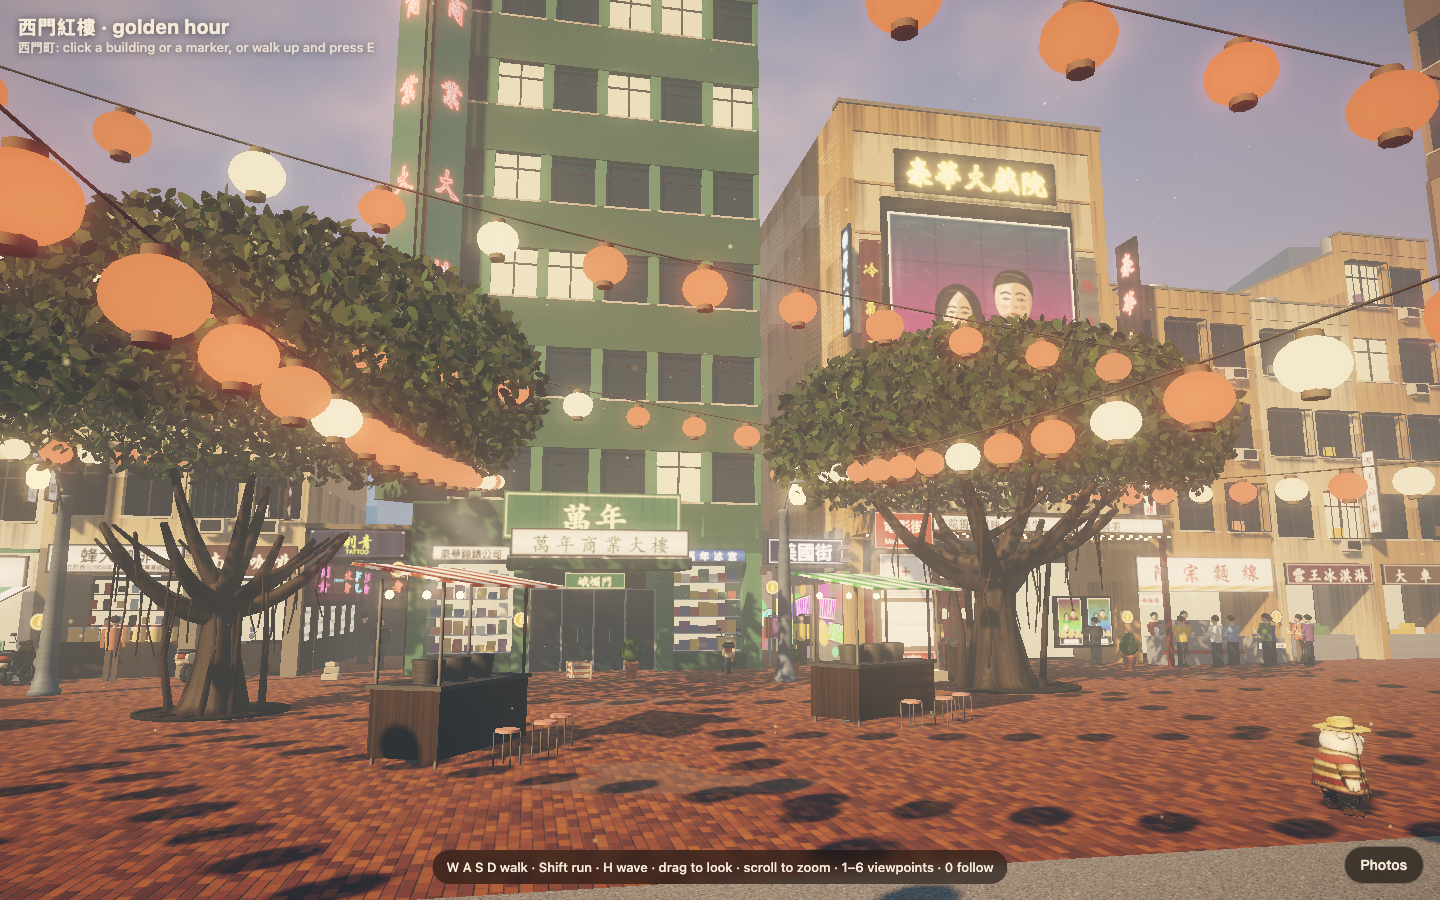
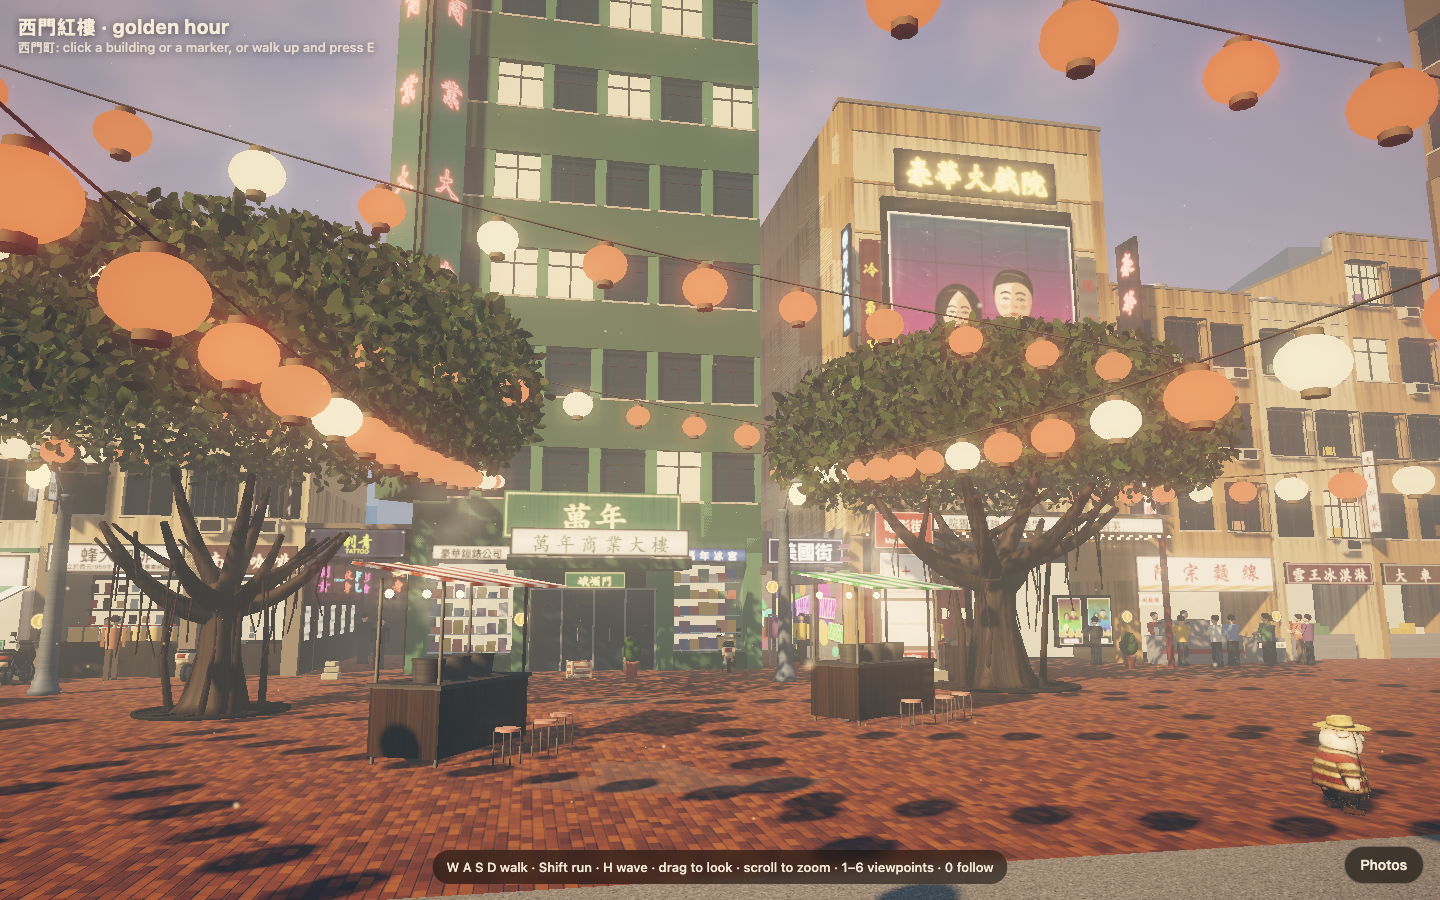
feat(remake): 豪華 billboard laid out after the 1964 樂聲 opening newsreel
Block title read right to left with the English title under it, from the
國家文化記憶庫 newsreel frame; sources.md records that search and the two
國史館 press sets that could not be viewed.

diff --git a/remake/landmarks-ximen.js b/remake/landmarks-ximen.js
@@ -134,7 +134,11 @@ function filmPoster(title, tag, hue, grid) {
     bust(W * 0.36, H * 0.4, W * 0.17, `hsl(${hue + 10},70%,42%)`, true); bust(W * 0.66, H * 0.33, W * 0.2, `hsl(${hue + 215},45%,30%)`, false);
     for (let i = 0; i < 260; i++) { g.strokeStyle = `rgba(${rnd() < 0.5 ? '255,240,210' : '40,20,30'},${0.03 + rnd() * 0.07})`; g.lineWidth = 2 + rnd() * 7; const x = rnd() * W, y = rnd() * H; g.beginPath(); g.moveTo(x, y); g.lineTo(x + (rnd() - 0.5) * W * 0.18, y + (rnd() - 0.5) * H * 0.05); g.stroke(); }   // brush marks
     g.textAlign = 'center'; g.textBaseline = 'middle'; g.lineJoin = 'round';
-    const size = Math.min(W * 0.92 / [...title].length, H * 0.2); g.font = `900 ${size}px ${WEI}`; g.lineWidth = size * 0.2; g.strokeStyle = '#fff6e0'; g.strokeText(title, W / 2, H * 0.76); g.lineWidth = size * 0.1; g.strokeStyle = '#7a120c'; g.strokeText(title, W / 2, H * 0.76); g.fillStyle = '#ffd21f'; g.fillText(title, W / 2, H * 0.76);
+    // a foreign film's board, as on 樂聲 in the 1964 opening newsreel: the title in heavy block characters read right to left, the English title under it
+    const en = grid && grid.en, tt = en ? [...title].reverse().join('　') : title, ty = H * (en ? 0.725 : 0.76), size = Math.min(W * 0.92 / [...tt].length, H * 0.2);
+    if (en) { g.fillStyle = 'rgba(20,12,30,.72)'; g.fillRect(0, H * 0.6, W, H * 0.28); }
+    g.font = `900 ${size}px ${en ? FONT : WEI}`; g.lineWidth = size * 0.2; g.strokeStyle = '#fff6e0'; if (!en) g.strokeText(tt, W / 2, ty); g.lineWidth = size * 0.1; g.strokeStyle = '#7a120c'; g.strokeText(tt, W / 2, ty); g.fillStyle = en ? '#fff6e0' : '#ffd21f'; g.fillText(tt, W / 2, ty);
+    if (en) { g.font = `800 ${H * 0.045}px "Arial Narrow", "Helvetica Neue", Arial, sans-serif`; g.fillStyle = '#ffd21f'; g.fillText(en.split('').join(' '), W / 2, H * 0.842); }
     g.font = `800 ${H * 0.062}px ${KAI}`; g.fillStyle = '#fff'; g.fillRect(W * 0.2, H * 0.885, W * 0.6, H * 0.085); g.fillStyle = '#b3271e'; g.fillText(tag, W / 2, H * 0.93);
     if (grid) { g.fillStyle = 'rgba(20,10,5,.4)'; for (let i = 1; i < grid.cols; i++) g.fillRect(W * i / grid.cols - 1.5, 0, 3, H); for (let i = 1; i < grid.rows; i++) g.fillRect(0, H * i / grid.rows - 1.5, W, 3); }   // the seams between the 6尺 canvas panels
     g.strokeStyle = '#f3e6c8'; g.lineWidth = Math.max(3, W * 0.012); g.strokeRect(g.lineWidth / 2, g.lineWidth / 2, W - g.lineWidth, H - g.lineWidth);
@@ -310,7 +314,7 @@ function cinema() {
   K.bx(x0, x1, G, H, -D, -0.1, M.cream); K.bx(x0, x1, 0, G, -D, -3.0, M.dark); K.bx(x0, x0 + 0.5, 0, H + 1, -D, 0, M.ochre); K.bx(x1 - 0.5, x1, 0, H + 1, -D, 0, M.ochre);
   K.bx(x0, x1, H, H + 1, -0.5, 0, M.ochre); K.bx(x0 - 0.06, x1 + 0.06, H + 1, H + 1.15, -0.6, 0.1, M.concDk); for (let i = 0; i < 7; i++) K.bx(x0 + 0.5, x1 - 0.5, 5.6 + i * 1.9, 5.7 + i * 1.9, -0.1, -0.02, M.ochre);
   // the hand-painted billboard over the whole upper front, cloth banners either side
-  K.bx(-3.75, 3.75, 6.3, 16.5, -0.1, 0.14, M.woodDk); K.mesh(paint(7.2, 9.0, filmPoster('畢業生', '本院獨家獻映', 0, { cols: 4, rows: 5 }), { glow: 0.42, oneSide: true, ppm: 100, depth: 0.08 }), 0, 11.4, 0.18);   // 豪華 ran 《畢業生》 alone in 1973, queues for a month; a board is 20 panels of 6尺, four across and five up
+  K.bx(-3.75, 3.75, 6.3, 16.5, -0.1, 0.14, M.woodDk); K.mesh(paint(7.2, 9.0, filmPoster('畢業生', '本院獨家獻映', 0, { cols: 4, rows: 5, en: 'THE GRADUATE' }), { glow: 0.42, oneSide: true, ppm: 100, depth: 0.08 }), 0, 11.4, 0.18);   // 豪華 ran 《畢業生》 alone in 1973, queues for a month; a board is 20 panels of 6尺, four across and five up
   [[-4.25, '冷氣開放', '#b3271e', '#ffe14a'], [4.25, '獨家獻映', '#f3ecd9', '#b3271e']].forEach(([x, t, bg, fg]) => K.mesh(sign(t, 0.8, 6.4, { vertical: true, kind: 'cloth', font: WEI, bg, fg, glow: 0.7, depth: 0.03 }), x, 11.6, 0.12));
   K.mesh(sign('豪華大戲院', 6.4, 1.6, { kind: 'neon', bg: '#1a0d0b', fg: '#ffd24a', font: WEI, spread: true, glow: 1.5, oneSide: true }), 0, 17.6, 0.06);
   K.mesh(sign('豪華大戲院', 1.15, 7.5, { vertical: true, kind: 'neon', font: WEI, bg: '#151515', fg: '#ff5a48', glow: 1.7 }), x1 + 0.1, 11.4, 1.0, Math.PI / 2); [9.2, 13.6].forEach(y => K.bx(x1 + 0.07, x1 + 0.13, y, y + 0.06, 0, 0.45, M.frame));

diff --git a/docs/signage/sources.md b/docs/signage/sources.md
@@ -41,6 +41,8 @@ CJ, 2026-11-21: 「還有這些招牌都怪怪的請出搜尋真實招牌 海報
 | S25 | https://commons.wikimedia.org/wiki/File:Chengdu_Rd,_Taipei_-_Tianhou_Temple_-_exterior_(2025)_-_img_01.jpg | 2025: 台北天后宮 (台, not 臺) left to right in white brush letters on red brick; two yellow uprights with the name in red |
 | S26 | https://commons.wikimedia.org/wiki/File:Lions'_Plaza_Commercial_Building_20171111.jpg | 2017: a dark-blue banner, 刺青 in yellow-green brush characters with TATTOO |
 | S27 | https://commons.wikimedia.org/wiki/File:Red_House_Theater_20231109.jpg | 2023: the Red House carries only a small stone plaque over the door, no banner |
+| S28 | https://tcmb.culture.tw/zh-tw/detail?indexCode=Culture_Media&id=702804 | 國家文化記憶庫, newsreel 「樂聲戲院開幕」, 1964-08-02 (國家電影及視聽文化中心). Opening frame: a framed board on the 樂聲 front above the canopy, 《西部開拓史》 in heavy block characters read right to left, HOW THE WEST WAS WON under it, a lower line with 彩色 and 70; a second pictorial board beside it; lettering along the canopy edge. Page text: 豪華 opened 1965-01-08, 日新 1966-09-27 |
+| S29 | https://tcmb.culture.tw/zh-tw/detail?indexCode=Culture_Object&id=301967 | 國家文化記憶庫, modern photo of 獅子林: golden-yellow panel facade, 獅子林 with LION'S PLAZA at street level |
 
 ## Sign by sign
 
@@ -52,7 +54,7 @@ CJ, 2026-11-21: 「還有這些招牌都怪怪的請出搜尋真實招牌 海報
 | 中華商場 | End walls: numeral 1 under 中華商場 | S2 (信棟 shows "5") | inferred |
 | 中華商場 | Top board 中華商場, read right to left | none for a board in that place | guess |
 | 中華商場 | Roof: 黑松汽水 in red neon; two bare frames; the bare National tower frame (unchanged, it belongs to the 1985 event marker) | S7, S6 | brand measured, colour and lettering guess |
-| 電影街 | Billboard 《畢業生》, strip 本院獨家獻映, 20 panels four by five with seams, no star names | S10, S8, S9 | title and panel count measured; the painting itself is ours; strip wording inferred |
+| 電影街 | Billboard 《畢業生》: title in block characters read right to left, THE GRADUATE under it, strip 本院獨家獻映, 20 panels four by five with seams, no star names | S10, S8, S9, S28 | title and panel count measured; block title, right-to-left and English line measured on 樂聲 in 1964 and carried to 豪華 in 1973: inferred; the painting itself is ours; strip wording inferred |
 | 電影街 | Cloth banners 冷氣開放, 獨家獻映 | S13 (cloth banners hung there) | wording inferred |
 | 電影街 | Name signs 豪華大戲院 (neon), 日新大戲院, 樂聲大戲院 | names S10, S11 | names measured for 樂聲, inferred for the other two; look is a guess (no photo of the name signs was found) |
 | 電影街 | Marquee 本院獨家獻映 畢業生 / 下期 真善美; poster cases 真善美, 回到未來; 售票處, 全票 半票 軍警票 | S10 | titles measured; wording of the boards inferred; the invented prices are gone |
@@ -71,6 +73,8 @@ CJ, 2026-11-21: 「還有這些招牌都怪怪的請出搜尋真實招牌 海報
 ## Not done
 
 - 西門紅樓 itself has no sign in the scene; the real one is a small stone plaque over the door (S27).
-- No period photo was found for the cinema name signs, for 來來 in colour, or for 萬年 and 獅子林 before 2008. `memory.culture.tw`, the 文獻館 and 報時光 are the likeliest places and were not searched.
+- 國家文化記憶庫 was searched on 2026-11-21 (西門町 戲院, 豪華戲院, 來來百貨, 獅子林, 武昌街 電影街, 萬年大樓, 西門町 街景): it gave S28 and S29. Still no period photo of the cinema name signs, of 來來 in colour, or of 萬年 and 獅子林 before 2008.
+- Two 國史館 press sets would likely settle the cinema signs and 萬年: 「春節期間電影街人潮洶湧」 1978-02-08 (典藏號 150-031700-0002-029) and the 萬年大樓 fire 1980-07-26 (150-031900-0003-028). 國家文化記憶庫 shows only their negative sleeves; the 國史館 online viewer (ahonline.drnh.gov.tw) hung on 系統處理中 for a guest and was not seen.
+- The 106 「1950至2006年臺灣常民生活」 street photos matched by 西門町 街景 carry no captions and watermarked thumbnails; they were not opened one by one.
 - The brush typefaces (Kaiti TC, Weibei TC, Xingkai TC, Yuanti TC) are macOS system fonts. On a device without them the signs fall back to 黑體; shipping a font file is `(unknown — needs CJ)`.
 - The photo showcases and event markers (`photowall.js`, `places.js`) are interface, not street signs, and are unchanged.
